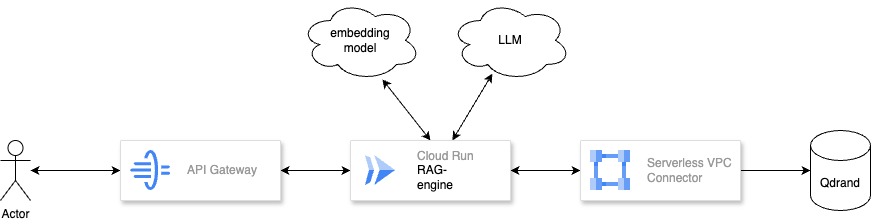
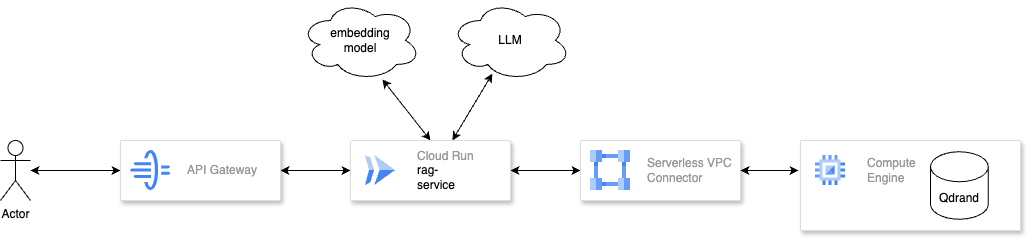
edit infra

diff --git a/README.md b/README.md
@@ -61,8 +61,8 @@ You can also ping the collections endpoint, but will need to use the API key set
 - **AI Models**: OpenAI
 - **Language**: Python 3.x
 
-## Infrastructure
-![Infrastructure Diagram](docs/infrastructure.png)
+## Cloud Infrastructure
+![Infrastructure Diagram](docs/infrastructure.svg)
 
 
 ## API Documentation
